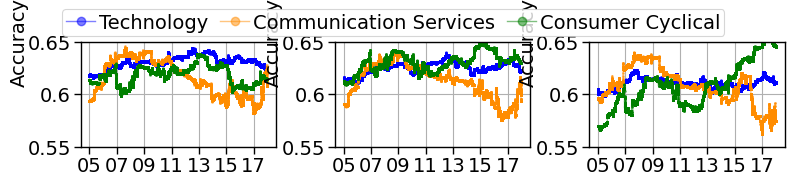
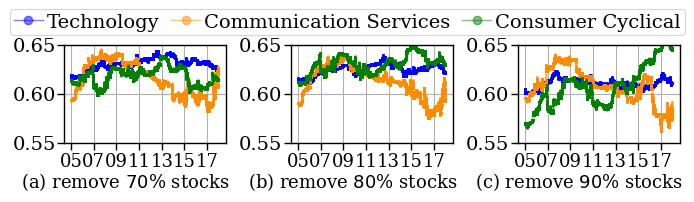
exp

diff --git a/experiments/stocks/stock_nanosecond/end2end/remove_some_communication_services_stocks_05-18/HAT_window_10_08-15/communication_services_fig.py b/experiments/stocks/stock_nanosecond/end2end/remove_some_communication_services_stocks_05-18/HAT_window_10_08-15/communication_services_fig.py
@@ -23,7 +23,7 @@ sns.set_context("paper", font_scale=2)
 
 plt.figure(figsize=(6, 3.5))
 plt.rcParams['font.size'] = 20
-
+plt.rcParams['font.family'] = 'serif'
 
 # # activate latex text rendering
 # rc('text', usetex=True)
@@ -61,8 +61,8 @@ removed_percentage = [70, 80, 90]
 draw_figure_start_time = pd.Timestamp('2024-10-15 14:00:05.00', tz='UTC')
 draw_figure_end_time = pd.Timestamp('2024-10-15 14:00:18.00', tz='UTC')
 
-fig, axes = plt.subplots(1, 3, figsize=(8, 1.5))
-plt.subplots_adjust(left=0.1, right=0.98, top=0.8, bottom=0.1, wspace=0.3)
+fig, axes = plt.subplots(1, 3, figsize=(7, 1.4))
+plt.subplots_adjust(left=0.1, right=0.98, top=0.8, bottom=0.1, wspace=0.4)
 
 
 for j in range(len(removed_percentage)):
@@ -84,15 +84,22 @@ for j in range(len(removed_percentage)):
                 linestyle='-',
                 marker='o', color=pair_colors[i], alpha=0.5)
     ax.set_xticks([xticks_times[k] for k in range(0, len(xticks_times), 2)])
-    ax.set_xticklabels([5, 7, 9, 11, 13, 15, 17], fontsize=14)
-    ax.xaxis.set_major_formatter(mdates.DateFormatter('%S'))
-    ax.set_ylabel('Accuracy', fontsize=14, labelpad=-1).set_position([0.1, 1])
+    ax.set_xticklabels(['05', '07', '09', '11', '13', '15', '17'], fontsize=13, rotation=0)
+    # ax.xaxis.set_major_formatter(mdates.DateFormatter('%S'))
+    # ax.set_ylabel('Accuracy', fontsize=14, labelpad=-1).set_position([0.08, 0.5])
     ax.set_yticks([0.55, 0.6, 0.65])
-    ax.set_yticklabels([0.55, 0.6, 0.65], fontsize=14)
+    ax.set_yticklabels([0.55, '0.60', 0.65], fontsize=14)
     ax.set_ylim(0.55, 0.65)
     ax.grid(True)
     ax.tick_params(axis='x', which='major', pad=2)
-    ax.tick_params(axis='y', which='major', pad=2)
+    ax.tick_params(axis='y', which='major', pad=1)
+    xlabel = f"({chr(97 + j)}) remove ${stock_fraction}$% stocks"
+    ax.set_xlabel(xlabel, fontsize=13, labelpad=0).set_position([0.38, 1])
+
+
+#
+# fig.supxlabel('Time (s) 14:00:05.00 to 14:00:18.00', fontsize=14, y =-0.25)
+
 
 handles, labels = [], []
 for ax in axes:
@@ -102,7 +109,8 @@ for ax in axes:
     break
 
 
-plt.legend(handles, labels, loc='upper center', bbox_to_anchor=(-1, 1.4), fontsize=14,
+
+plt.legend(handles, labels, loc='upper center', bbox_to_anchor=(-1.05, 1.46), fontsize=14,
                ncol=3, labelspacing=0.5, handletextpad=0.2, markerscale=6, handlelength=1.5,
                columnspacing=0.6, borderpad=0.2, frameon=True)
 plt.savefig(f"StockAcc_end2end_HAT_alpha_{get_integer(alpha)}_remove_stock_different_fraction.png",
